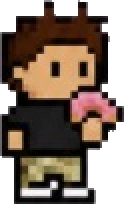
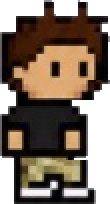
Footer peek: sprite without the donut (arms down)
Claude-Session: https://claude.ai/code/session_01VWttRDZvWxRE1HF7Qi7Saa

diff --git a/assets/css/site.css b/assets/css/site.css
@@ -611,8 +611,8 @@ hr.rule { border: 0; border-top: 1px solid var(--line); margin: 40px auto; max-w
 .site-footer p { margin: 2px 0; }
 .site-footer p { font-family: var(--mono); font-size: 17px; letter-spacing: .03em; }
 .site-footer .by-wrap { position: relative; display: inline-block; }
-.site-footer .peek { position: absolute; left: 0; bottom: calc(100% - 8px); width: 46px; height: 50px; overflow: hidden; pointer-events: none; }
-.site-footer .peek-guy { display: block; width: 46px; height: auto; transform: translateY(105%); transition: transform .28s cubic-bezier(.5,0,.75,0); }
+.site-footer .peek { position: absolute; left: 0; bottom: calc(100% - 8px); width: 41px; height: 50px; overflow: hidden; pointer-events: none; }
+.site-footer .peek-guy { display: block; width: 41px; height: auto; transform: translateY(105%); transition: transform .28s cubic-bezier(.5,0,.75,0); }
 .site-footer .peek.up .peek-guy { transform: translateY(0); transition: transform .42s cubic-bezier(.34,1.45,.6,1); }   /* little springy pop */
 .site-footer .by { position: relative; z-index: 1; font-family: var(--pixel); font-size: 21px; letter-spacing: .26em; text-transform: uppercase; color: var(--ink-soft); margin: 0 -.26em 0 0; }
 

diff --git a/assets/js/layout.js b/assets/js/layout.js
@@ -59,7 +59,7 @@
   // Pixel me: every so often he pops up from behind "By Trainbloom", looks around, and ducks back down.
   (function () {
     var peek = footer.querySelector(".peek"), wrap = footer.querySelector(".by-wrap");
-    peek.innerHTML = '<img class="peek-guy" src="/assets/img/peek-me.png" alt="" width="62" height="102">';
+    peek.innerHTML = '<img class="peek-guy" src="/assets/img/peek-me.png" alt="" width="55" height="102">';
     var guy = peek.firstChild;
     if (window.matchMedia && matchMedia("(prefers-reduced-motion: reduce)").matches) { peek.classList.add("up"); return; }
 
